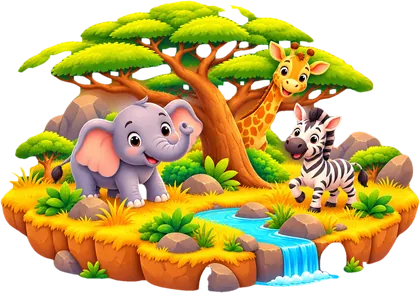
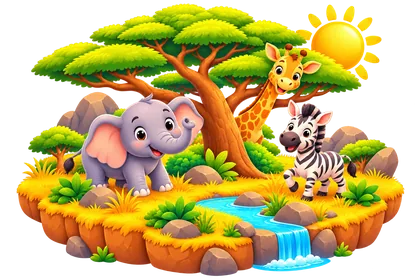
Place art for Colour Garden, Shape Town and Family & Class Island; new Numbers Mountain
- Use the supplied pictures as they are (1536 x 1024 with their own
  transparency), resized to 960px and 420px WebP. This also restores the
  parts the earlier cutouts trimmed (the Animal Safari sun, water, side trees).
- Numbers Mountain: new waterfall picture; tap 1, 2 and 3 on the trail.
- Colour Garden: tap each flower to hear its colour, and the rainbow.
- Shape Town: tap the triangle roof, circle window, square, rectangle
  window and star.
- Animal Safari: the sun is a tap spot too.
- Family & Class Island: picture on the world map (no trail).
- Service worker precaches the new images.
- e2e: subject-art.spec.js covers the map tiles for all six places and the
  trail tap spots for five.

Claude-Session: https://claude.ai/code/session_01X3jXeLiBg129157kCKNihr

diff --git a/apps/web/components/art/SubjectArt.js b/apps/web/components/art/SubjectArt.js
@@ -7,7 +7,8 @@ import { playSound } from "@/lib/sounds";
 
 /**
  * Painted artwork for a subject place: the world map tile, the trail header and the trail
- * backdrop. `ratio` is width / height of the image. Each spot is a tap target on the trail
+ * backdrop. The pictures are used as supplied (1536 x 1024 with their own transparency), so
+ * `ratio` is width / height of the image. Each spot is a tap target on the trail
  * header, placed as % of the artwork (x, y = centre, w = diameter as % of the width).
  * @type {Record<string, { src: string, small: string, ratio: number, spots: { say: string, label: string, x: number, y: number, w: number }[] }>}
  */
@@ -15,36 +16,68 @@ export const SUBJECT_ART = {
   numbers: {
     src: "/art/number-mountain.webp",
     small: "/art/number-mountain-sm.webp",
-    ratio: 1621 / 781,
+    ratio: 1536 / 1024,
     spots: [
-      { say: "six", label: "Number six", x: 12.5, y: 72, w: 13 },
-      { say: "eight", label: "Number eight", x: 28.8, y: 62, w: 16 },
-      { say: "ten", label: "Number ten", x: 49.2, y: 35, w: 20 },
-      { say: "seven", label: "Number seven", x: 69.8, y: 66, w: 16 },
-      { say: "five", label: "Number five", x: 88.8, y: 74, w: 13 },
+      { say: "one", label: "Number one", x: 52.4, y: 14.7, w: 11.9 },
+      { say: "two", label: "Number two", x: 38.4, y: 43.5, w: 13.4 },
+      { say: "three", label: "Number three", x: 68.8, y: 52.3, w: 12.6 },
     ],
   },
   language: {
     src: "/art/letter-forest.webp",
     small: "/art/letter-forest-sm.webp",
-    ratio: 1425 / 1014,
+    ratio: 1536 / 1024,
     spots: [
-      { say: "A", label: "Letter A", x: 18.7, y: 35.5, w: 15 },
-      { say: "B", label: "Letter B", x: 49.6, y: 23.7, w: 15 },
-      { say: "C", label: "Letter C", x: 80.8, y: 39.4, w: 14 },
-      { say: "small a", label: "Small letter a", x: 37.3, y: 48.3, w: 9 },
-      { say: "small b", label: "Small letter b", x: 65.8, y: 53.3, w: 9 },
+      { say: "A", label: "Letter A", x: 21.5, y: 35.2, w: 13.9 },
+      { say: "B", label: "Letter B", x: 50.1, y: 23.5, w: 13.9 },
+      { say: "C", label: "Letter C", x: 79.1, y: 39.0, w: 13.0 },
+      { say: "small a", label: "Small letter a", x: 38.7, y: 47.8, w: 8.3 },
+      { say: "small b", label: "Small letter b", x: 65.1, y: 52.8, w: 8.3 },
     ],
   },
   animals: {
     src: "/art/animal-safari.webp",
     small: "/art/animal-safari-sm.webp",
-    ratio: 1421 / 990,
+    ratio: 1536 / 1024,
     spots: [
-      { say: "elephant", label: "Elephant", x: 31, y: 50, w: 22 },
-      { say: "giraffe", label: "Giraffe", x: 69.7, y: 24.5, w: 12 },
-      { say: "zebra", label: "Zebra", x: 75, y: 54, w: 15 },
+      { say: "elephant", label: "Elephant", x: 32.5, y: 50.0, w: 20.4 },
+      { say: "giraffe", label: "Giraffe", x: 68.3, y: 25.3, w: 11.1 },
+      { say: "zebra", label: "Zebra", x: 73.2, y: 53.9, w: 13.9 },
+      { say: "sun", label: "Sun", x: 82.7, y: 14.6, w: 12 },
     ],
+  },
+  colours: {
+    src: "/art/colour-garden.webp",
+    small: "/art/colour-garden-sm.webp",
+    ratio: 1536 / 1024,
+    spots: [
+      { say: "red", label: "Red", x: 22.1, y: 42.5, w: 19.4 },
+      { say: "yellow", label: "Yellow", x: 36.5, y: 32.3, w: 18.4 },
+      { say: "blue", label: "Blue", x: 49.9, y: 50.2, w: 17.4 },
+      { say: "green", label: "Green", x: 62.1, y: 37.6, w: 16.5 },
+      { say: "purple", label: "Purple", x: 79.4, y: 33.7, w: 16.5 },
+      { say: "orange", label: "Orange", x: 76.5, y: 54.0, w: 16.5 },
+      { say: "rainbow", label: "Rainbow", x: 51.9, y: 15.2, w: 19.4 },
+    ],
+  },
+  shapes: {
+    src: "/art/shape-town.webp",
+    small: "/art/shape-town-sm.webp",
+    ratio: 1536 / 1024,
+    spots: [
+      { say: "triangle", label: "Triangle", x: 21.5, y: 36.1, w: 14.4 },
+      { say: "circle", label: "Circle", x: 36.2, y: 35.7, w: 8.6 },
+      { say: "square", label: "Square", x: 69.6, y: 24.0, w: 5.8 },
+      { say: "rectangle", label: "Rectangle", x: 58.9, y: 48.9, w: 9.6 },
+      { say: "star", label: "Star", x: 78.1, y: 58.6, w: 11.5 },
+    ],
+  },
+  // Family & Class Island has no trail, so its art is only on the map.
+  family: {
+    src: "/art/family-island.webp",
+    small: "/art/family-island-sm.webp",
+    ratio: 1536 / 1024,
+    spots: [],
   },
 };
 

diff --git a/apps/web/e2e/subject-art.spec.js b/apps/web/e2e/subject-art.spec.js
@@ -6,23 +6,31 @@ const PLACES = [
   {
     id: "numbers",
     file: "number-mountain",
-    spots: ["Number five", "Number six", "Number seven", "Number eight", "Number ten"],
+    spots: ["Number one", "Number two", "Number three"],
   },
   {
     id: "language",
     file: "letter-forest",
     spots: ["Letter A", "Letter B", "Letter C", "Small letter a", "Small letter b"],
   },
-  { id: "animals", file: "animal-safari", spots: ["Elephant", "Giraffe", "Zebra"] },
+  { id: "animals", file: "animal-safari", spots: ["Elephant", "Giraffe", "Zebra", "Sun"] },
+  {
+    id: "colours",
+    file: "colour-garden",
+    spots: ["Red", "Yellow", "Blue", "Green", "Purple", "Orange", "Rainbow"],
+  },
+  { id: "shapes", file: "shape-town", spots: ["Triangle", "Circle", "Square", "Rectangle", "Star"] },
 ];
+// Family & Class Island has art on the map only (it has no trail).
+const MAP_ONLY = ["family-island"];
 
 test("place art on the map", async ({ page }) => {
   watchErrors(page);
   await demo(page);
   await page.getByRole("button", { name: /Zawadi/ }).click();
   await expect(page).toHaveURL(/\/play\/map$/);
-  for (const p of PLACES) {
-    const art = page.locator(`img[src="/art/${p.file}-sm.webp"]`).filter({ visible: true });
+  for (const file of [...PLACES.map((p) => p.file), ...MAP_ONLY]) {
+    const art = page.locator(`img[src="/art/${file}-sm.webp"]`).filter({ visible: true });
     await expect(art).toHaveCount(1);
     await expect.poll(() => art.evaluate((img) => img.naturalWidth)).toBeGreaterThan(0);
   }

diff --git a/apps/web/components/screens/WorldMap.js b/apps/web/components/screens/WorldMap.js
@@ -210,7 +210,7 @@ export default function WorldMap() {
             sx={PLACE_SX}
           >
             <Box sx={{ height: 22 }}>{newChip}</Box>
-            <Island kind="family" width="min(180px, 100%)" height={120} />
+            <SubjectArt id="family" small width={artWidth("family", 120)} />
             <Typography sx={{ fontFamily: "var(--font-display)", fontWeight: 800, fontSize: 19 }}>
               {t("map.familyIsland")}
             </Typography>
@@ -349,7 +349,7 @@ export default function WorldMap() {
             color: "text.primary",
           }}
         >
-          <Island kind="family" width={88} height={62} />
+          <SubjectArt id="family" small width={110} height={72} />
           <Box sx={{ flex: 1, minWidth: 0 }}>
             <Typography sx={{ fontFamily: "var(--font-display)", fontWeight: 800, fontSize: 20 }}>
               {t("map.familyIsland")}

diff --git a/apps/web/app/sw.js/route.js b/apps/web/app/sw.js/route.js
@@ -47,6 +47,12 @@ const EXTRAS = [
   "/art/letter-forest-sm.webp",
   "/art/animal-safari.webp",
   "/art/animal-safari-sm.webp",
+  "/art/colour-garden.webp",
+  "/art/colour-garden-sm.webp",
+  "/art/shape-town.webp",
+  "/art/shape-town-sm.webp",
+  "/art/family-island.webp",
+  "/art/family-island-sm.webp",
   // Approved unit illustrations that are in this build, so lessons look right offline.
   ...Object.values(ALL_ASSETS)
     .flatMap((m) => m.assets)
